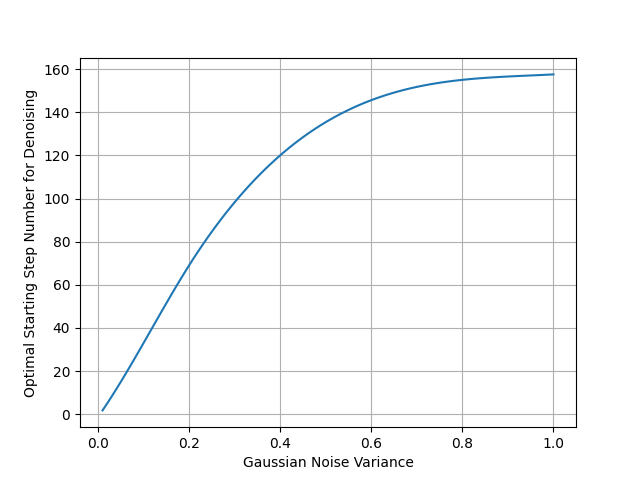
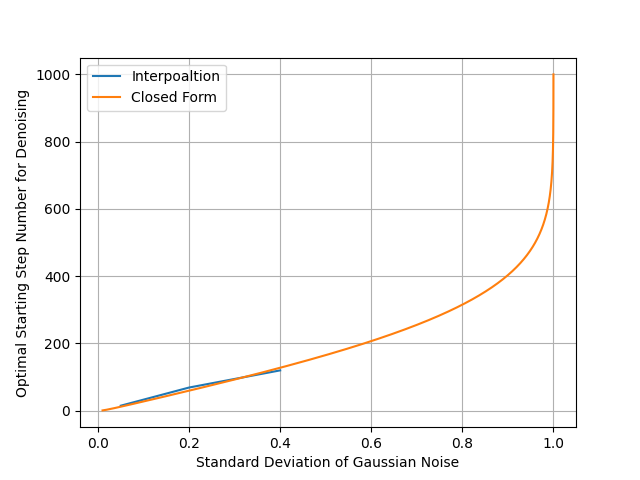
Added new type of noisy images

diff --git a/figure-generator.py b/figure-generator.py
@@ -171,17 +171,24 @@ level_to_curr_step = {0.05: 15, 0.1: 33, 0.2: 69, 0.4: 120}
 #     ax.grid(True)
 #     plt.savefig("ssim-curr-tune.png")
 
-# ----------------------------- Tuning sigma = 0.8 -----------------------------
+# ----------------------------- Tuning for one sigma -----------------------------
 # psnr_result = []
 # ssim_result = []
-# level = 0.8
-# tune_range = range(120, 1001, 10)
+# level = 2
+# start = 150
+# end = 300
+# tune_step = 5
+# tune_range = range(start, end+1, tune_step)
 # for curr_step in tune_range:
 #     psnr = 0
 #     ssim = 0
 #     for img_id in range(5):
 #         clean = io.imread(f"./samples/clean/{img_id}.jpg").astype(float) / 255
-#         noisy_img = io.imread(f"./samples/noisy/{img_id}-{level}-{noise_type}.jpg").astype(float) / 255
+#         # noisy_img = io.imread(f"./samples/noisy/{img_id}-{level}-{noise_type}.jpg").astype(float) / 255
+#         noisy_img = np.clip(clean + level * np.random.randn(256, 256, 3), a_min=0., a_max=1.)
+#         actual_noise = noisy_img - clean
+#         print(np.std(actual_noise))
+#         print(np.mean(actual_noise))
 #         x = torch.Tensor([noisy_img.transpose([2, 0, 1])]).to(DEVICE)
 #         denoised = diffusion.denoise(1, x=x, curr_step=curr_step, n_steps=curr_step)[0, ...].cpu().detach().numpy().transpose([1,2,0])
 #         psnr += calc_psnr_hvsm(denoised, clean)
@@ -190,20 +197,20 @@ level_to_curr_step = {0.05: 15, 0.1: 33, 0.2: 69, 0.4: 120}
 #     ssim_result.append(ssim / 5)
 #
 #     fig, ax = plt.subplots()
-#     ax.plot(range(120, curr_step+1, 10), psnr_result, label=f"sigma={level}")
+#     ax.plot(range(start, curr_step+1, tune_step), psnr_result, label=f"sigma={level}")
 #     ax.legend()
 #     ax.set_xlabel("Starting Step Number")
 #     ax.set_ylabel("PSNR-HVS-M (dB)")
 #     ax.grid(True)
-#     plt.savefig("psnr-curr-tune-0.8.png")
+#     plt.savefig("psnr-curr-tune-0.3.png")
 #
 #     fig, ax = plt.subplots()
-#     ax.plot(range(120, curr_step+1, 10), ssim_result, label=f"sigma={level}")
+#     ax.plot(range(start, curr_step+1, tune_step), ssim_result, label=f"sigma={level}")
 #     ax.legend()
 #     ax.set_xlabel("Starting Step Number")
 #     ax.set_ylabel("SSIM")
 #     ax.grid(True)
-#     plt.savefig("ssim-curr-tune-0.8.png")
+#     plt.savefig("ssim-curr-tune-0.3.png")
 
     # s_c is 155 for sigma=0.8
 
@@ -221,49 +228,61 @@ level_to_curr_step = {0.05: 15, 0.1: 33, 0.2: 69, 0.4: 120}
 # clean_images = io.imread(image_path).astype(float) / 255
 # plt.imsave(f"{image_path[:-4]}-cropped.jpg", clean_images[120:184, 70:132])
 
-# ----------------------------- Interpolation -----------------------------
-sigmas = [0.05, 0.1, 0.2, 0.4, 0.8]
-curr_steps = [15, 33, 69, 120, 155]
-sigma2curr_step = interpolate.splrep(sigmas, curr_steps)
-sigma_space = np.linspace(0.01, 1, 100)
+# ----------------------------- Interpolation vs closed form -----------------------------
+
+betas = np.linspace(0.0001, 0.02, 1000)
+alphas = 1.0-betas
+alphas_cumprod = np.cumprod(alphas, axis=0)
+stds = np.sqrt(1-alphas_cumprod)
+
+sigmas = [0.05, 0.1, 0.2, 0.4]
+curr_steps = [15, 33, 69, 120]
+sigma2curr_step = interpolate.interp1d(sigmas, curr_steps)
+sigma_space = np.linspace(0.05, 0.4, 100)
 fig, ax = plt.subplots()
-ax.plot(sigma_space, interpolate.splev(sigma_space, sigma2curr_step))
+ax.plot(sigma_space, sigma2curr_step(sigma_space), label="Interpoaltion")
+ax.plot(stds, np.linspace(1, 1000, 1000), label="Closed Form")
+ax.legend()
 ax.grid(True)
-ax.set_xlabel("Gaussian Noise Variance")
+ax.set_xlabel("Standard Deviation of Gaussian Noise")
 ax.set_ylabel("Optimal Starting Step Number for Denoising")
 plt.savefig("interpolation.png")
 
-img_id = 0
-level = 1
-noise_type = 'g'
-clean = io.imread(f"./samples/clean/{img_id}.jpg").astype(float) / 255
-noisy_img = np.clip(clean + np.random.normal(0, level, (256, 256, 3)), a_min=0., a_max=1.)
-print(np.average(clean))
-print(np.average(noisy_img))
-plt.imshow(noisy_img)
-plt.show()
-x = torch.Tensor([noisy_img.transpose([2, 0, 1])]).to(DEVICE)
-curr_step = 160
-denoised = diffusion.denoise(1, x=x, curr_step=curr_step, n_steps=curr_step)[0, ...].cpu().detach().numpy().transpose([1,2,0])
-print(calc_psnr_hvsm(denoised, clean))
-print(calc_ssim(denoised, clean))
-plt.imshow(denoised)
-plt.show()
 
-# betas = np.linspace(0.0001, 0.02, 1000)
-# alphas = 1.0-betas
-# alphas_cumprod = np.cumprod(alphas, axis=0)
-# alphas_cumprod_prev = np.append(1.0, alphas_cumprod[:-1])
-# posterior_variance = betas*(1.0-alphas_cumprod_prev) / (1.0-alphas_cumprod)
-# sqrt_recip_alphas_cumprod = np.sqrt(1. / alphas_cumprod)
-# sqrt_recipm1_alphas_cumprod = np.sqrt(1. / alphas_cumprod - 1)
-# posterior_mean_coef1 = betas * np.sqrt(alphas_cumprod_prev) / (1. - alphas_cumprod)
-# posterior_mean_coef2 = (1. - alphas_cumprod_prev) * np.sqrt(alphas) / (1. - alphas_cumprod)
-#
-# def get_noise_level(t):
-#     s = 1
-#     for i in range(999, t-1, -1):
-#         s = s / alphas[i] - (1-alphas[i])**2/alphas_cumprod[i]/alphas[i] + betas[i]
-#         print(s)
-#     return s
-# print(get_noise_level(150))
+# ----------------------------- Validation of Interpolation -----------------------------
+# validate_sigmas = [0.3, 0.6, 0.9]
+# validate_curr_steps = interpolate.splev(validate_sigmas, sigma2curr_step)
+# img_id = 4
+# noise_type = 'g'
+# for i in range(3):
+#     level = validate_sigmas[i]
+#     curr_step = int(validate_curr_steps[i])
+#     print(level, curr_step)
+#     clean = io.imread(f"./samples/clean/{img_id}.jpg").astype(float) / 255
+#     noisy_img = np.clip(clean + np.random.normal(0, level, (256, 256, 3)), a_min=0., a_max=1.)
+#     print("noisy psnr", calc_psnr_hvsm(noisy_img, clean))
+#     print("noisy ssim", calc_ssim(noisy_img, clean))
+#     plt.imsave(f"./samples/noisy/interpolation/{img_id}-{level}-g.png", noisy_img)
+#     x = torch.Tensor([noisy_img.transpose([2, 0, 1])]).to(DEVICE)
+#     denoised = diffusion.denoise(1, x=x, curr_step=curr_step, n_steps=curr_step)[0, ...].cpu().detach().numpy().transpose([1,2,0])
+#     print("denoised psnr", calc_psnr_hvsm(denoised, clean))
+#     print("denoised ssim", calc_ssim(denoised, clean))
+#     plt.imsave(f"./samples/ddpm-denoised/interpolation/{img_id}-{level}-g.png", np.clip(denoised, a_min=0., a_max=1.))
+
+# 0.3 98
+# noisy psnr 16.89995718387649
+# noisy ssim 0.19186292970704055
+# denoised psnr 20.25897614829583
+# denoised ssim 0.75785273
+# 0.6 145
+# noisy psnr 12.838676855677493
+# noisy ssim 0.08770467277230924
+# denoised psnr 14.918611463618781
+# denoised ssim 0.6321207
+# 0.9 156
+# noisy psnr 11.276436440979648
+# noisy ssim 0.05716424572656217
+# denoised psnr 12.936433970509771
+# denoised ssim 0.56312585
+
+

diff --git a/ddpm-tuning.py b/ddpm-tuning.py
@@ -8,7 +8,7 @@ from glob import glob
 import os
 from util import calc_psnr_hvsm, calc_ssim
 from constants import CHANNEL_NUM, SIZE, CLEAN_DIR, NOISY_DIR, MODEL, DEVICE, SAVE_NOISY, GAUSSIAN_NOISE, LEVELS, \
-    CLEAN_VAL_DIR, NOISY_VAL_DIR
+    CLEAN_VAL_DIR, NOISY_VAL_DIR, LAMBDA
 
 # Load the DDPM model
 print("Loading Model...")
@@ -34,10 +34,9 @@ for level in LEVELS:
     if SAVE_NOISY:
         # Generate noisy images and save them to NOISY_DIR
         noisy_images = np.copy(clean_images)
-        if GAUSSIAN_NOISE:
-            noisy_images += level * np.random.randn(image_num, SIZE, SIZE, CHANNEL_NUM)
-        else:
-            noisy_images += np.random.poisson(level, (image_num, SIZE, SIZE, CHANNEL_NUM))
+        noisy_images += level * np.random.randn(image_num, SIZE, SIZE, CHANNEL_NUM)
+        if not GAUSSIAN_NOISE:
+            noisy_images += np.random.poisson(LAMBDA, (image_num, SIZE, SIZE, CHANNEL_NUM))
         # Save noisy images
         for i in range(image_num):
             plt.imsave(

diff --git a/constants.py b/constants.py
@@ -10,5 +10,6 @@ MODEL = 'lsun_church'
 DEVICE = 'cuda:0'
 # DEVICE = 'cpu'
 SAVE_NOISY = True  # True when saving noisy images, False when denoising
-GAUSSIAN_NOISE = True  # True if noises are Gaussian-distributed, False if Poisson-distributed
-LEVELS = [.05, .1, .2, .4, .8]
+GAUSSIAN_NOISE = False  # True if noises are Gaussian-distributed, False if Gaussian-Poisson
+LEVELS = [.05, .1, .2, .4]
+LAMBDA = .1
